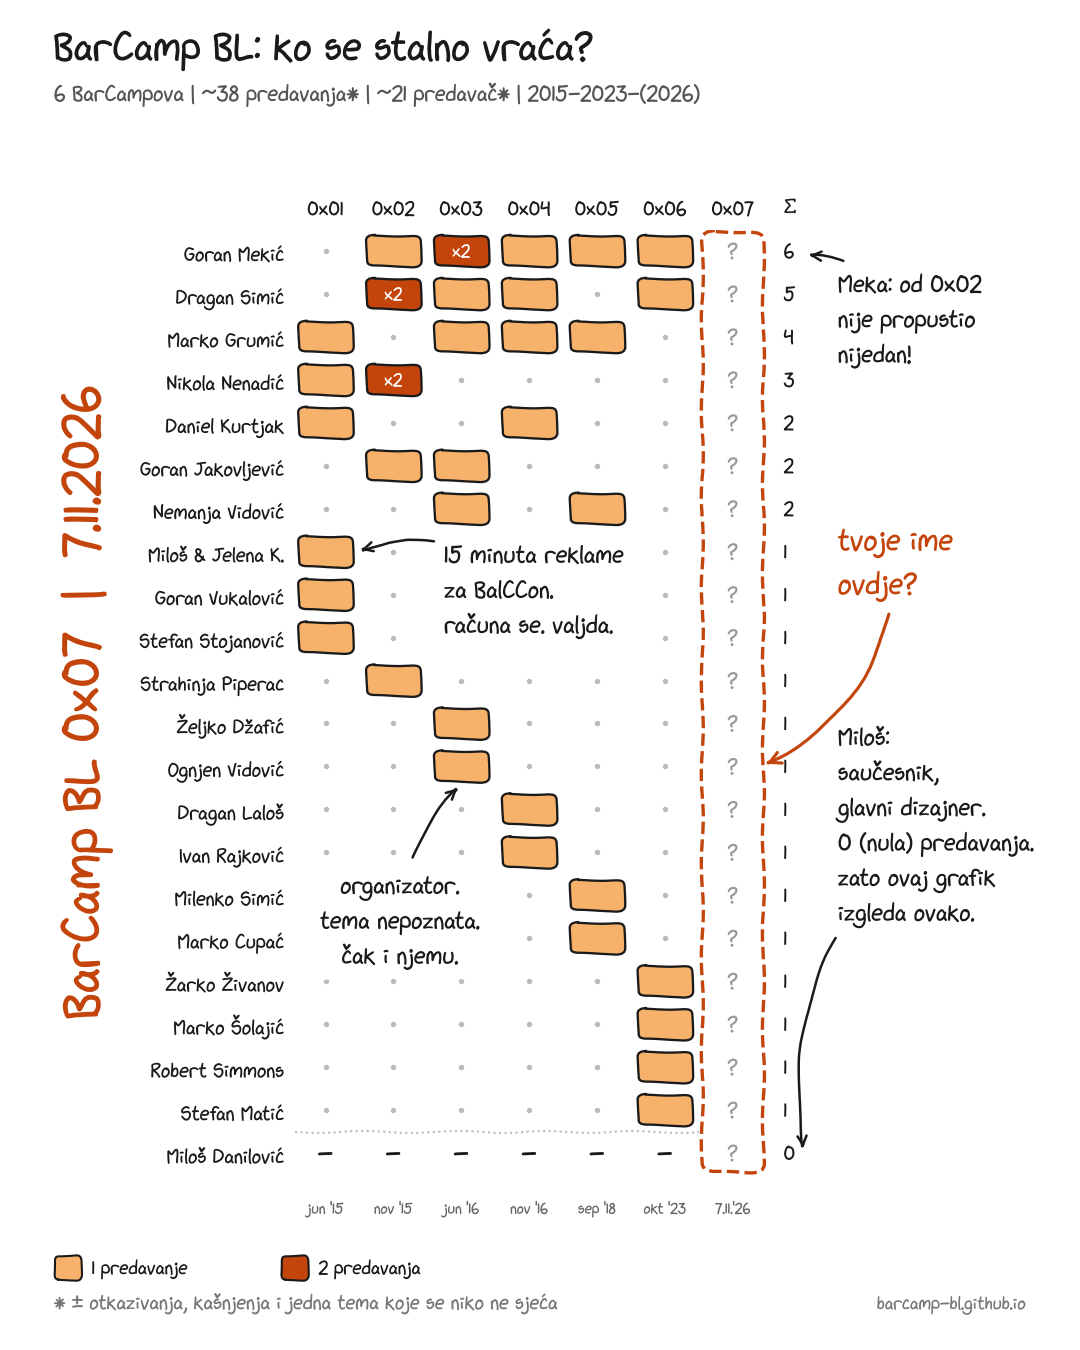
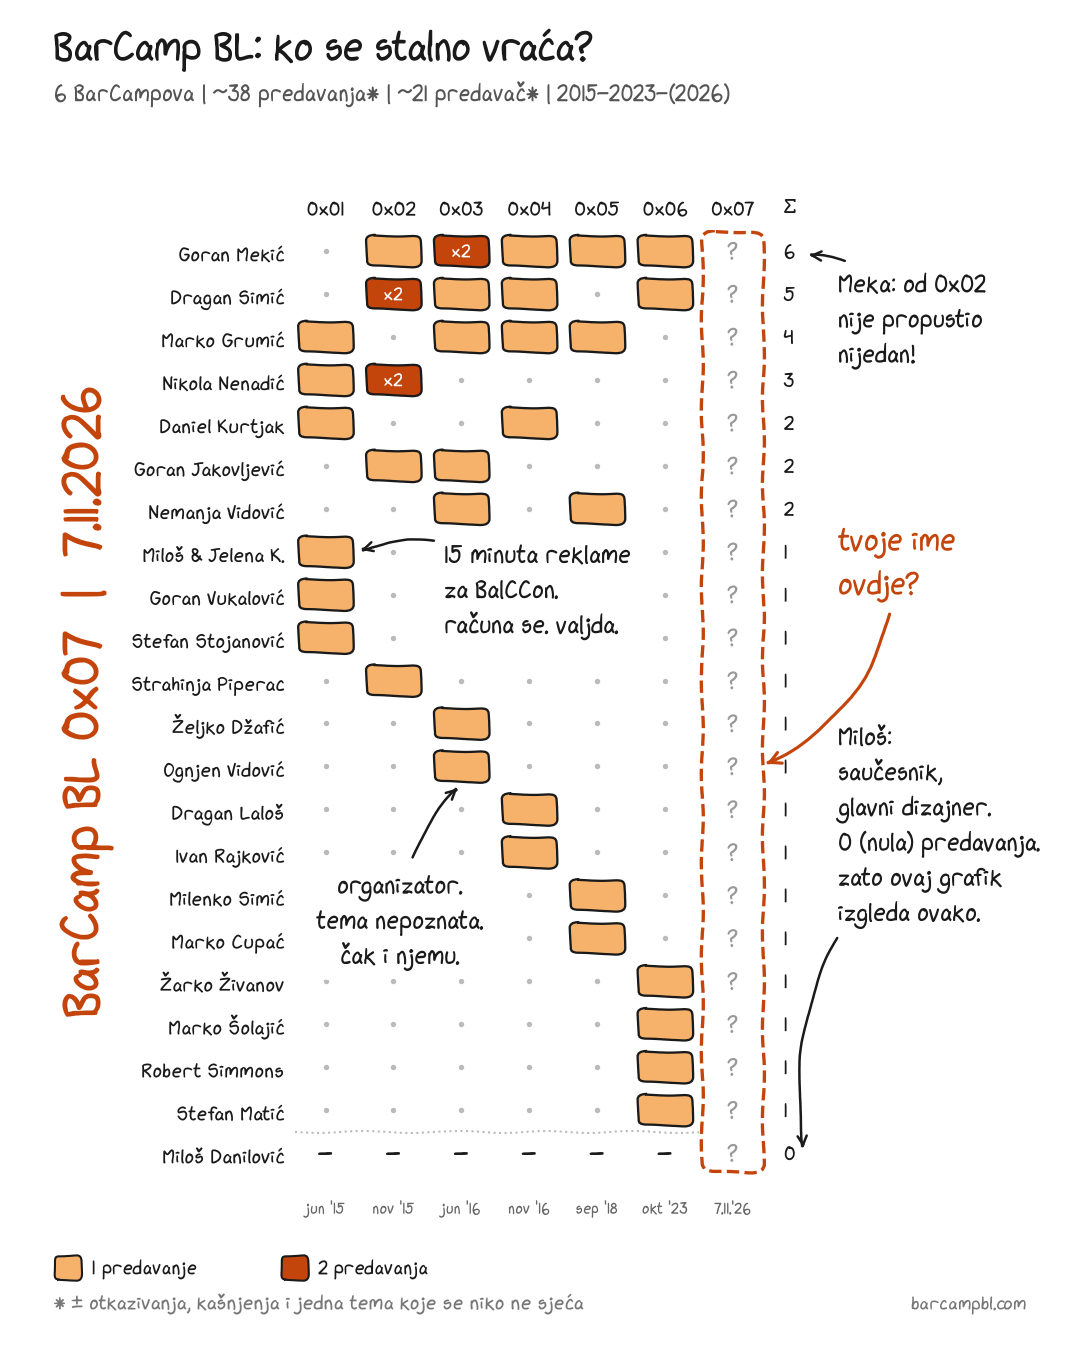
dot com

diff --git a/index.html b/index.html
@@ -119,7 +119,7 @@ layout: default
       <p>Imaš temu? Hardver, softver, security, retro, nešto što si napravio pa se pokvarilo.
         Prijave do {{ site.cfp_until }}.</p>
       <p>Hoćeš da pomogneš? Hrana i piće, majice, afterparty ili troškovi organizacije. Dogovorićemo se.</p>
-      <a class="btn primary" href="mailto:{{ site.email }}">{{ site.email }}</a>
+      <a class="btn primary" href="mailto:{{ site.email }}">{{ site.email | replace: "@", " [at] " | replace: ".", " [dot] " }}</a>
     </div>
     <div class="box">
       <h3>Samo dođi</h3>
